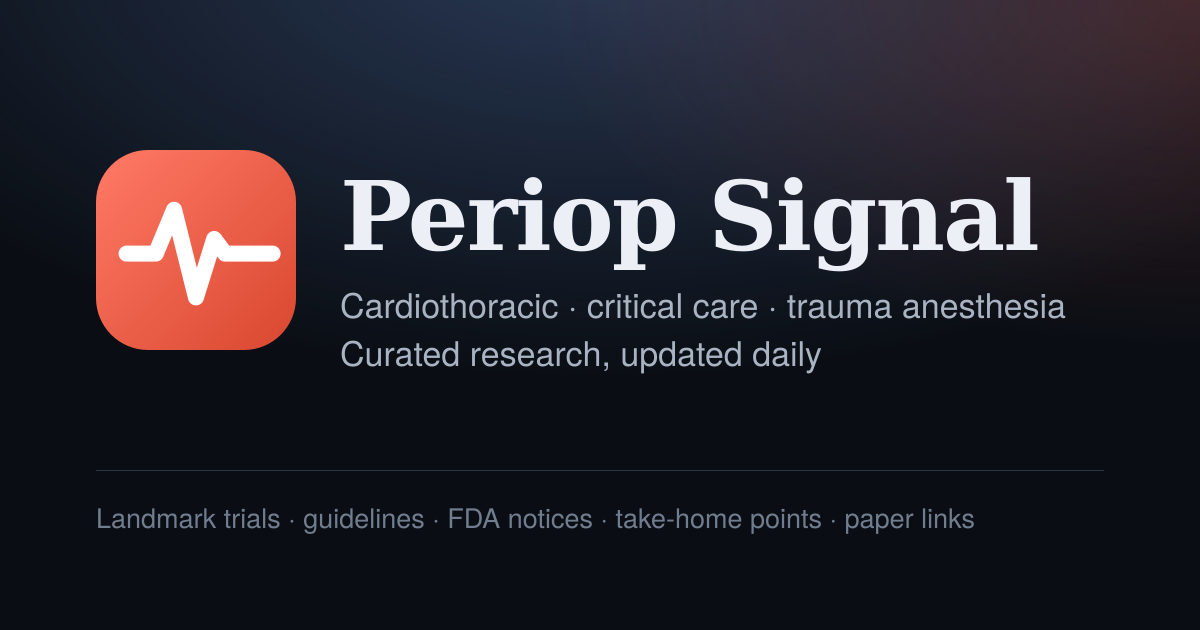
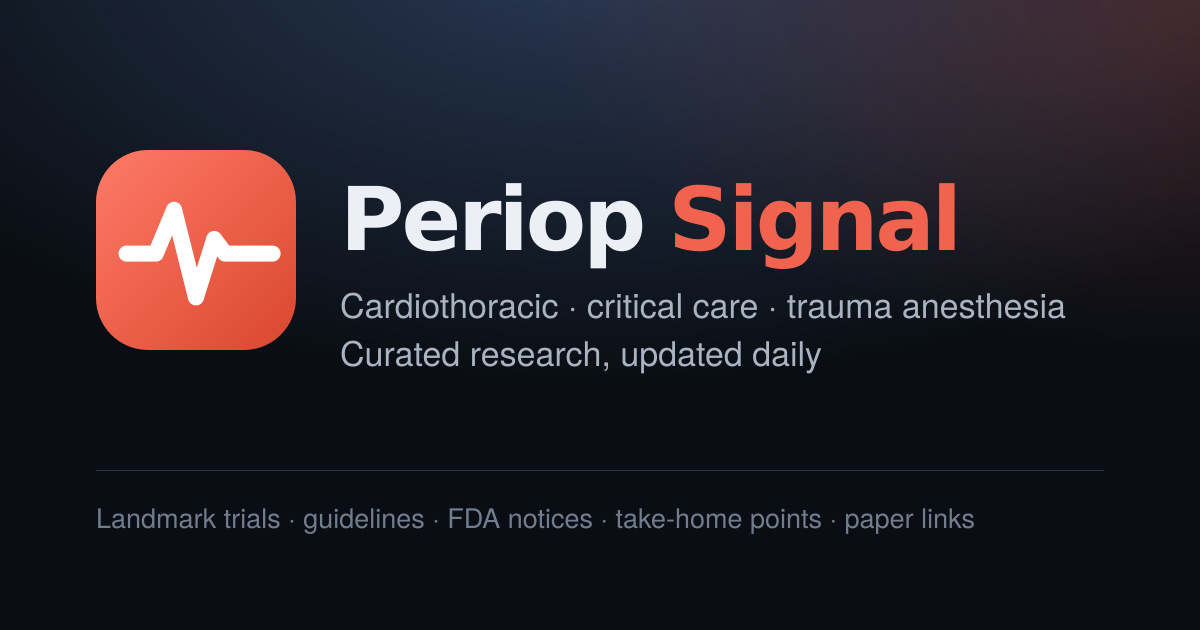
Branded wordmark (Unbounded, two-tone) and creator credit
Claude-Session: https://claude.ai/code/session_014BRoFDnxtDm2bzjMP6qiNJ

Changed region(s): [[0.2775, 0.2714, 0.8633, 0.4524]]

diff --git a/index.html b/index.html
@@ -34,7 +34,7 @@ img { max-width: 100%; }
 <script>try{var __t=JSON.parse(localStorage.getItem('ps.theme')||'null');if(__t==='light'||__t==='dark'){document.documentElement.setAttribute('data-theme',__t);}}catch(e){}</script>
 <link rel="preconnect" href="https://fonts.googleapis.com">
 <link rel="preconnect" href="https://fonts.gstatic.com" crossorigin>
-<link rel="stylesheet" href="https://fonts.googleapis.com/css2?family=Fraunces:opsz,wght@9..144,500;9..144,600;9..144,700&family=Figtree:wght@400;500;600;700&family=IBM+Plex+Mono:wght@500&display=swap">
+<link rel="stylesheet" href="https://fonts.googleapis.com/css2?family=Unbounded:wght@700;800&family=Fraunces:opsz,wght@9..144,500;9..144,600;9..144,700&family=Figtree:wght@400;500;600;700&family=IBM+Plex+Mono:wght@500&display=swap">
 <style>
 /* Layout concept: "Night shift". One 620px timeline column over a deep blue-black ground with a soft glow at the top; serif headlines, glowing cards, coral for landmark signals, soft blue for actions. Dark by default, light on request. */
 :root {
@@ -61,6 +61,7 @@ img { max-width: 100%; }
   --sheet-shadow: 0 -16px 48px rgba(0,0,0,.6);
   --scrim: rgba(3, 6, 10, .66);
   --mast-bg: rgba(10, 14, 20, .82);
+  --font-brand: "Unbounded", "Arial Black", "Avenir Next Heavy", Impact, system-ui, sans-serif;
   --font-display: "Fraunces", "Iowan Old Style", "Palatino Linotype", Georgia, serif;
   --font-body: "Figtree", "Helvetica Neue", Arial, system-ui, sans-serif;
   --font-mono: "IBM Plex Mono", "SF Mono", Menlo, Consolas, monospace;
@@ -149,19 +150,22 @@ a { color: var(--accent-2); }
   padding-left: max(16px, env(safe-area-inset-left, 0px)); padding-right: max(16px, env(safe-area-inset-right, 0px));
   padding-block: 12px 0;
 }
-.brand-row { display: flex; align-items: center; gap: 12px; }
+.brand-row { display: flex; align-items: center; gap: 10px; }
 .logo { width: 38px; height: 38px; border-radius: 12px; background: linear-gradient(145deg, #FF7A66, #D9472F); display: grid; place-items: center; flex: none; box-shadow: 0 6px 18px rgba(242,99,79,.28); }
 .logo svg { width: 26px; height: 26px; display: block; }
-.brand { min-width: 0; flex: 1; display: grid; gap: 1px; }
-.brand h1 { font-family: var(--font-display); font-variation-settings: "opsz" 36; font-size: 23px; font-weight: 700; letter-spacing: -0.015em; margin: 0; line-height: 1.1; white-space: nowrap; overflow: hidden; text-overflow: ellipsis; }
+.brand { min-width: 0; flex: 1; display: grid; gap: 2px; container-type: inline-size; }
+.brand h1 { font-family: var(--font-brand); font-weight: 800; letter-spacing: -0.035em; margin: 0; line-height: 1.05; white-space: nowrap; font-size: clamp(14px, 4.4vw, 21px); font-size: min(21px, 9.6cqi); }
+.brand h1 .w2 { color: var(--accent); }
+.brand .byline .label { color: var(--fg-3); font-weight: 500; }
 .brand p { margin: 0; font-size: 12px; color: var(--fg-3); white-space: nowrap; overflow: hidden; text-overflow: ellipsis; }
 .brand .byline { color: var(--fg-2); font-weight: 600; font-size: 12.5px; }
 .brand p .live { color: var(--new); font-weight: 600; }
 .brand p .live::before { content: ""; display: inline-block; width: 6px; height: 6px; border-radius: 50%; background: var(--new); margin: 0 5px 1px 0; box-shadow: 0 0 0 3px var(--new-soft); }
-.icon-btn { width: 36px; height: 36px; border-radius: 10px; display: grid; place-items: center; color: var(--fg-2); flex: none; }
+.icon-btn { width: 34px; height: 34px; border-radius: 10px; display: grid; place-items: center; color: var(--fg-2); flex: none; }
 .icon-btn:hover { background: var(--surface-2); color: var(--fg); }
 .icon-btn[aria-pressed="true"] { background: var(--accent-2-soft); color: var(--accent-2); }
 .icon-btn svg { width: 20px; height: 20px; }
+.brand-row .icon-btn { margin-left: -2px; }
 .search-row { display: none; padding-block: 10px 2px; }
 .search-row.open { display: block; }
 .search-row input {
@@ -282,6 +286,8 @@ a { color: var(--accent-2); }
 .sheet-inner { max-width: 660px; margin: 0 auto; display: grid; gap: 16px; }
 .sheet-head { display: flex; gap: 12px; align-items: flex-start; }
 .sheet h2 { margin: 0; font-family: var(--font-display); font-variation-settings: "opsz" 28; font-size: 24px; line-height: 1.22; font-weight: 600; letter-spacing: -0.012em; text-wrap: balance; }
+.sheet h2.wordmark { font-family: var(--font-brand); font-weight: 800; letter-spacing: -0.035em; font-size: 24px; font-variation-settings: normal; }
+.sheet h2.wordmark .w2 { color: var(--accent); }
 .sheet-actions { display: flex; gap: 8px; flex-wrap: wrap; }
 .section-label { font-family: var(--font-mono); font-size: 11px; letter-spacing: .1em; text-transform: uppercase; color: var(--fg-3); margin: 0 0 7px; }
 .deep { display: grid; gap: 11px; font-size: 15.5px; line-height: 1.6; }
@@ -322,8 +328,8 @@ a { color: var(--accent-2); }
         <svg viewBox="0 0 24 24" fill="none" stroke="#fff" stroke-width="2.2" stroke-linecap="round" stroke-linejoin="round"><path d="M2 12h4l2.5-6 3 12 2.5-8 1.5 2H22"/></svg>
       </div>
       <div class="brand">
-        <h1>Periop Signal</h1>
-        <p class="byline">Benjamin Mori, MD</p>
+        <h1><span class="w1">Periop</span> <span class="w2">Signal</span></h1>
+        <p class="byline"><span class="label">Creator:</span> Benjamin Mori, MD</p>
         <p id="tagline">Cardiothoracic, critical care and trauma anesthesia research, curated daily</p>
       </div>
       <button class="icon-btn" id="btn-search" aria-label="Search posts" aria-pressed="false">
@@ -592,7 +598,7 @@ a { color: var(--accent-2); }
     $('#sheet-kicker').textContent = 'About';
     const newest = state.posts.reduce((a, p) => (p.addedAt > a ? p.addedAt : a), '0000');
     sheetContent.innerHTML = `
-      <h2 id="sheet-title">Periop Signal</h2>
+      <h2 id="sheet-title" class="wordmark"><span class="w1">Periop</span> <span class="w2">Signal</span></h2>
       <div class="about">
         <p>A curated research feed for cardiothoracic anesthesiology, mechanical circulatory support, perioperative echocardiography, trauma anesthesia, critical care, and the big stories across anesthesiology. Each post is a short summary with take-home points, a direct link to the paper, and a longer AI-written overview.</p>
         <p class="section-label">How posts are chosen</p>

diff --git a/src/page.html b/src/page.html
@@ -3,7 +3,7 @@
 <script>try{var __t=JSON.parse(localStorage.getItem('ps.theme')||'null');if(__t==='light'||__t==='dark'){document.documentElement.setAttribute('data-theme',__t);}}catch(e){}</script>
 <link rel="preconnect" href="https://fonts.googleapis.com">
 <link rel="preconnect" href="https://fonts.gstatic.com" crossorigin>
-<link rel="stylesheet" href="https://fonts.googleapis.com/css2?family=Fraunces:opsz,wght@9..144,500;9..144,600;9..144,700&family=Figtree:wght@400;500;600;700&family=IBM+Plex+Mono:wght@500&display=swap">
+<link rel="stylesheet" href="https://fonts.googleapis.com/css2?family=Unbounded:wght@700;800&family=Fraunces:opsz,wght@9..144,500;9..144,600;9..144,700&family=Figtree:wght@400;500;600;700&family=IBM+Plex+Mono:wght@500&display=swap">
 <style>
 /* Layout concept: "Night shift". One 620px timeline column over a deep blue-black ground with a soft glow at the top; serif headlines, glowing cards, coral for landmark signals, soft blue for actions. Dark by default, light on request. */
 :root {
@@ -30,6 +30,7 @@
   --sheet-shadow: 0 -16px 48px rgba(0,0,0,.6);
   --scrim: rgba(3, 6, 10, .66);
   --mast-bg: rgba(10, 14, 20, .82);
+  --font-brand: "Unbounded", "Arial Black", "Avenir Next Heavy", Impact, system-ui, sans-serif;
   --font-display: "Fraunces", "Iowan Old Style", "Palatino Linotype", Georgia, serif;
   --font-body: "Figtree", "Helvetica Neue", Arial, system-ui, sans-serif;
   --font-mono: "IBM Plex Mono", "SF Mono", Menlo, Consolas, monospace;
@@ -118,19 +119,22 @@ a { color: var(--accent-2); }
   padding-left: max(16px, env(safe-area-inset-left, 0px)); padding-right: max(16px, env(safe-area-inset-right, 0px));
   padding-block: 12px 0;
 }
-.brand-row { display: flex; align-items: center; gap: 12px; }
+.brand-row { display: flex; align-items: center; gap: 10px; }
 .logo { width: 38px; height: 38px; border-radius: 12px; background: linear-gradient(145deg, #FF7A66, #D9472F); display: grid; place-items: center; flex: none; box-shadow: 0 6px 18px rgba(242,99,79,.28); }
 .logo svg { width: 26px; height: 26px; display: block; }
-.brand { min-width: 0; flex: 1; display: grid; gap: 1px; }
-.brand h1 { font-family: var(--font-display); font-variation-settings: "opsz" 36; font-size: 23px; font-weight: 700; letter-spacing: -0.015em; margin: 0; line-height: 1.1; white-space: nowrap; overflow: hidden; text-overflow: ellipsis; }
+.brand { min-width: 0; flex: 1; display: grid; gap: 2px; container-type: inline-size; }
+.brand h1 { font-family: var(--font-brand); font-weight: 800; letter-spacing: -0.035em; margin: 0; line-height: 1.05; white-space: nowrap; font-size: clamp(14px, 4.4vw, 21px); font-size: min(21px, 9.6cqi); }
+.brand h1 .w2 { color: var(--accent); }
+.brand .byline .label { color: var(--fg-3); font-weight: 500; }
 .brand p { margin: 0; font-size: 12px; color: var(--fg-3); white-space: nowrap; overflow: hidden; text-overflow: ellipsis; }
 .brand .byline { color: var(--fg-2); font-weight: 600; font-size: 12.5px; }
 .brand p .live { color: var(--new); font-weight: 600; }
 .brand p .live::before { content: ""; display: inline-block; width: 6px; height: 6px; border-radius: 50%; background: var(--new); margin: 0 5px 1px 0; box-shadow: 0 0 0 3px var(--new-soft); }
-.icon-btn { width: 36px; height: 36px; border-radius: 10px; display: grid; place-items: center; color: var(--fg-2); flex: none; }
+.icon-btn { width: 34px; height: 34px; border-radius: 10px; display: grid; place-items: center; color: var(--fg-2); flex: none; }
 .icon-btn:hover { background: var(--surface-2); color: var(--fg); }
 .icon-btn[aria-pressed="true"] { background: var(--accent-2-soft); color: var(--accent-2); }
 .icon-btn svg { width: 20px; height: 20px; }
+.brand-row .icon-btn { margin-left: -2px; }
 .search-row { display: none; padding-block: 10px 2px; }
 .search-row.open { display: block; }
 .search-row input {
@@ -251,6 +255,8 @@ a { color: var(--accent-2); }
 .sheet-inner { max-width: 660px; margin: 0 auto; display: grid; gap: 16px; }
 .sheet-head { display: flex; gap: 12px; align-items: flex-start; }
 .sheet h2 { margin: 0; font-family: var(--font-display); font-variation-settings: "opsz" 28; font-size: 24px; line-height: 1.22; font-weight: 600; letter-spacing: -0.012em; text-wrap: balance; }
+.sheet h2.wordmark { font-family: var(--font-brand); font-weight: 800; letter-spacing: -0.035em; font-size: 24px; font-variation-settings: normal; }
+.sheet h2.wordmark .w2 { color: var(--accent); }
 .sheet-actions { display: flex; gap: 8px; flex-wrap: wrap; }
 .section-label { font-family: var(--font-mono); font-size: 11px; letter-spacing: .1em; text-transform: uppercase; color: var(--fg-3); margin: 0 0 7px; }
 .deep { display: grid; gap: 11px; font-size: 15.5px; line-height: 1.6; }
@@ -291,8 +297,8 @@ a { color: var(--accent-2); }
         <svg viewBox="0 0 24 24" fill="none" stroke="#fff" stroke-width="2.2" stroke-linecap="round" stroke-linejoin="round"><path d="M2 12h4l2.5-6 3 12 2.5-8 1.5 2H22"/></svg>
       </div>
       <div class="brand">
-        <h1>Periop Signal</h1>
-        <p class="byline">Benjamin Mori, MD</p>
+        <h1><span class="w1">Periop</span> <span class="w2">Signal</span></h1>
+        <p class="byline"><span class="label">Creator:</span> Benjamin Mori, MD</p>
         <p id="tagline">Cardiothoracic, critical care and trauma anesthesia research, curated daily</p>
       </div>
       <button class="icon-btn" id="btn-search" aria-label="Search posts" aria-pressed="false">
@@ -561,7 +567,7 @@ a { color: var(--accent-2); }
     $('#sheet-kicker').textContent = 'About';
     const newest = state.posts.reduce((a, p) => (p.addedAt > a ? p.addedAt : a), '0000');
     sheetContent.innerHTML = `
-      <h2 id="sheet-title">Periop Signal</h2>
+      <h2 id="sheet-title" class="wordmark"><span class="w1">Periop</span> <span class="w2">Signal</span></h2>
       <div class="about">
         <p>A curated research feed for cardiothoracic anesthesiology, mechanical circulatory support, perioperative echocardiography, trauma anesthesia, critical care, and the big stories across anesthesiology. Each post is a short summary with take-home points, a direct link to the paper, and a longer AI-written overview.</p>
         <p class="section-label">How posts are chosen</p>

diff --git a/tools/make_icons.js b/tools/make_icons.js
@@ -34,7 +34,7 @@ const ogSvg = `<svg xmlns="http://www.w3.org/2000/svg" viewBox="0 0 1200 630">
   <rect width="1200" height="630" fill="url(#g2)"/>
   <rect x="96" y="150" width="200" height="200" rx="52" fill="url(#lg)"/>
   <g transform="translate(112 166)">${trace(7.3)}</g>
-  <text x="340" y="250" font-family="Georgia, 'DejaVu Serif', serif" font-size="96" font-weight="700" fill="#ECF0F6" letter-spacing="-2">Periop Signal</text>
+  <text x="340" y="250" font-family="'Arial Black', 'DejaVu Sans', Arial, sans-serif" font-size="88" font-weight="900" letter-spacing="-3"><tspan fill="#ECF0F6">Periop</tspan><tspan fill="${RED}" dx="22">Signal</tspan></text>
   <text x="340" y="318" font-family="Helvetica, Arial, 'DejaVu Sans', sans-serif" font-size="34" fill="#A9B3C2">Cardiothoracic · critical care · trauma anesthesia</text>
   <text x="340" y="366" font-family="Helvetica, Arial, 'DejaVu Sans', sans-serif" font-size="34" fill="#A9B3C2">Curated research, updated daily</text>
   <rect x="96" y="470" width="1008" height="1" fill="#2C3748"/>
